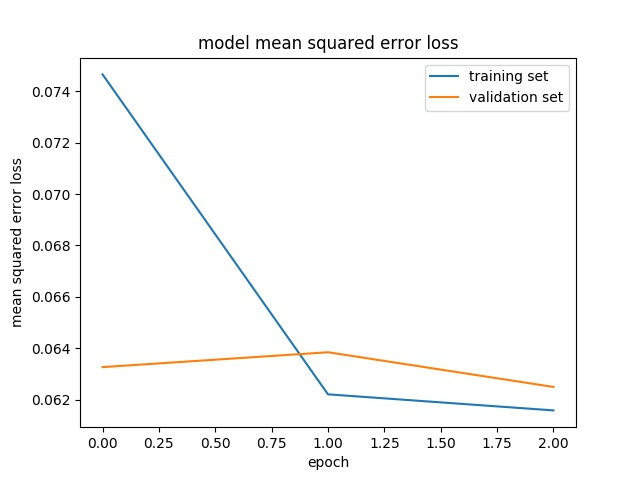
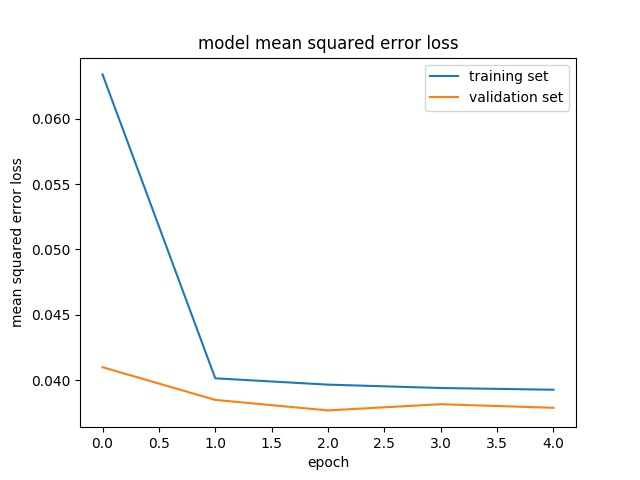
Another round of training on aws.

diff --git a/model.py b/model.py
@@ -98,29 +98,29 @@ model.add(Lambda(lambda x: (x / 255) - 0.5))
 
 #Layer 1 (90, 320, 3)
 model.add(Conv2D(12, kernel_size = (3, 3), padding = 'valid', activation = 'relu', \
-    kernel_regularizer = regularizers.l2(0.005)))
+    kernel_regularizer = regularizers.l2(0.001)))
 model.add(MaxPooling2D(pool_size=(2, 2)))
 #model.add(Dropout(rate = 0.8))
 
 #Layer 2 (43, 158, 3)
 model.add(Conv2D(24, kernel_size = (3, 3), padding = 'valid', activation = 'relu', \
-    kernel_regularizer = regularizers.l2(0.005)))
-model.add(MaxPooling2D(pool_size=(2, 2)))
+    kernel_regularizer = regularizers.l2(0.001)))
+#model.add(MaxPooling2D(pool_size=(2, 2)))
 
 #Layer 3 (20, 78, 24)
 model.add(Conv2D(36, kernel_size = (3, 3), padding = 'valid', activation = 'relu', \
-    kernel_regularizer = regularizers.l2(0.005)))
-model.add(MaxPooling2D(pool_size=(2, 2)))
+    kernel_regularizer = regularizers.l2(0.001)))
+#model.add(MaxPooling2D(pool_size=(2, 2)))
 
 
 #Layer 4 (9, 38, 36)
 model.add(Conv2D(48, kernel_size = (3, 3), padding = 'valid', activation = 'relu', \
-    kernel_regularizer = regularizers.l2(0.005)))
+    kernel_regularizer = regularizers.l2(0.001)))
 #model.add(MaxPooling2D(pool_size=(2, 2)))
 
 #Layer 5 (3, 18, 48)
 model.add(Conv2D(64, kernel_size = (3, 3), padding = 'valid', activation = 'relu', \
-    kernel_regularizer = regularizers.l2(0.005)))
+    kernel_regularizer = regularizers.l2(0.001)))
 #model.add(MaxPooling2D(pool_size=(2, 2)))
 #model.add(Dropout(rate = 0.8))
 
@@ -128,18 +128,18 @@ model.add(Conv2D(64, kernel_size = (3, 3), padding = 'valid', activation = 'relu
 model.add(Flatten())
 
 #Layer 6, full connected layer (576, 1)
-model.add(Dense(512, activation = 'relu', kernel_regularizer = regularizers.l2(0.005)))
+model.add(Dense(512, activation = 'relu', kernel_regularizer = regularizers.l2(0.001)))
 #model.add(Dropout(rate = 0.5))
 
 
 #Layer 7
-model.add(Dense(256, activation = 'relu', kernel_regularizer = regularizers.l2(0.005)))
+model.add(Dense(256, activation = 'relu', kernel_regularizer = regularizers.l2(0.001)))
 
 #Layer 8
-model.add(Dense(128, activation = 'relu', kernel_regularizer = regularizers.l2(0.005)))
+model.add(Dense(128, activation = 'relu', kernel_regularizer = regularizers.l2(0.001)))
 
 #Layer 9
-model.add(Dense(64, activation = 'relu', kernel_regularizer = regularizers.l2(0.005)))
+model.add(Dense(64, activation = 'relu', kernel_regularizer = regularizers.l2(0.001)))
 
 
 #Output
@@ -159,7 +159,7 @@ from keras.models import Model
 import matplotlib.pyplot as plt
 
 history_object = model.fit_generator(train_generator, steps_per_epoch = len(train_samples), \
-    validation_data = validation_generator, validation_steps = len(validation_samples), epochs = 3, verbose = 1)
+    validation_data = validation_generator, validation_steps = len(validation_samples), epochs = 5, verbose = 1)
 
 #Save the model
 model.save('model.h5')
